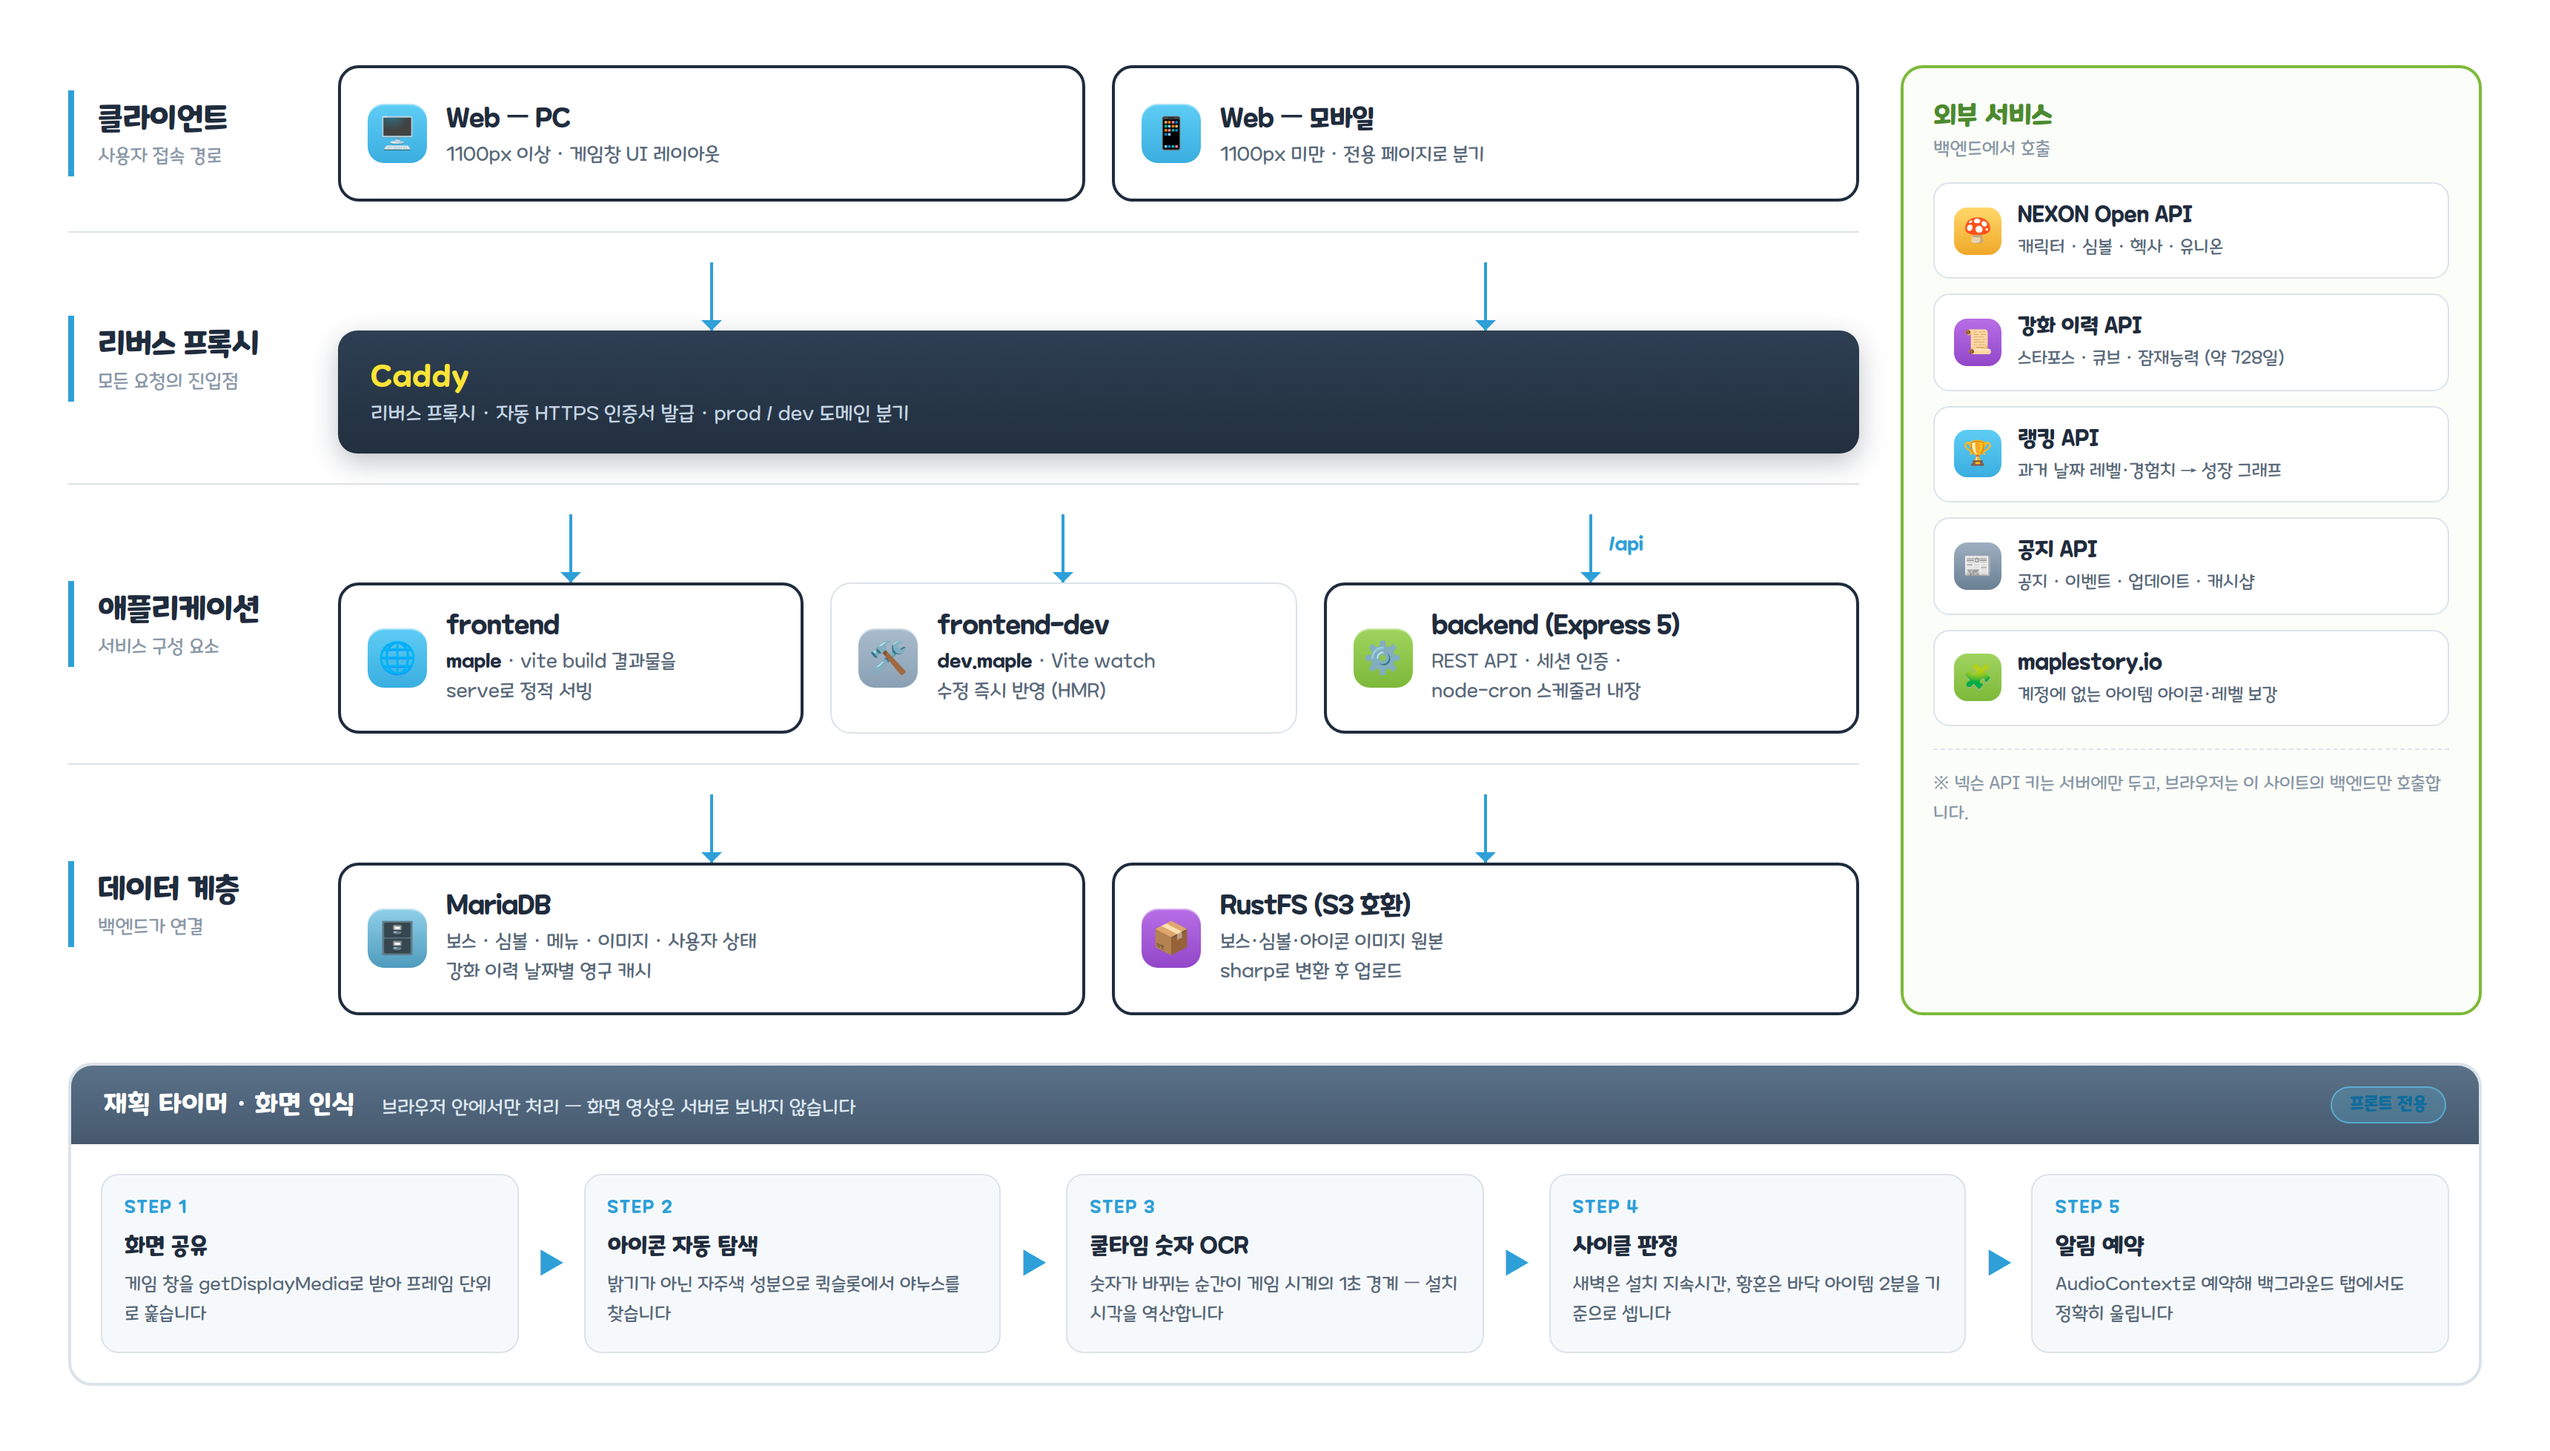
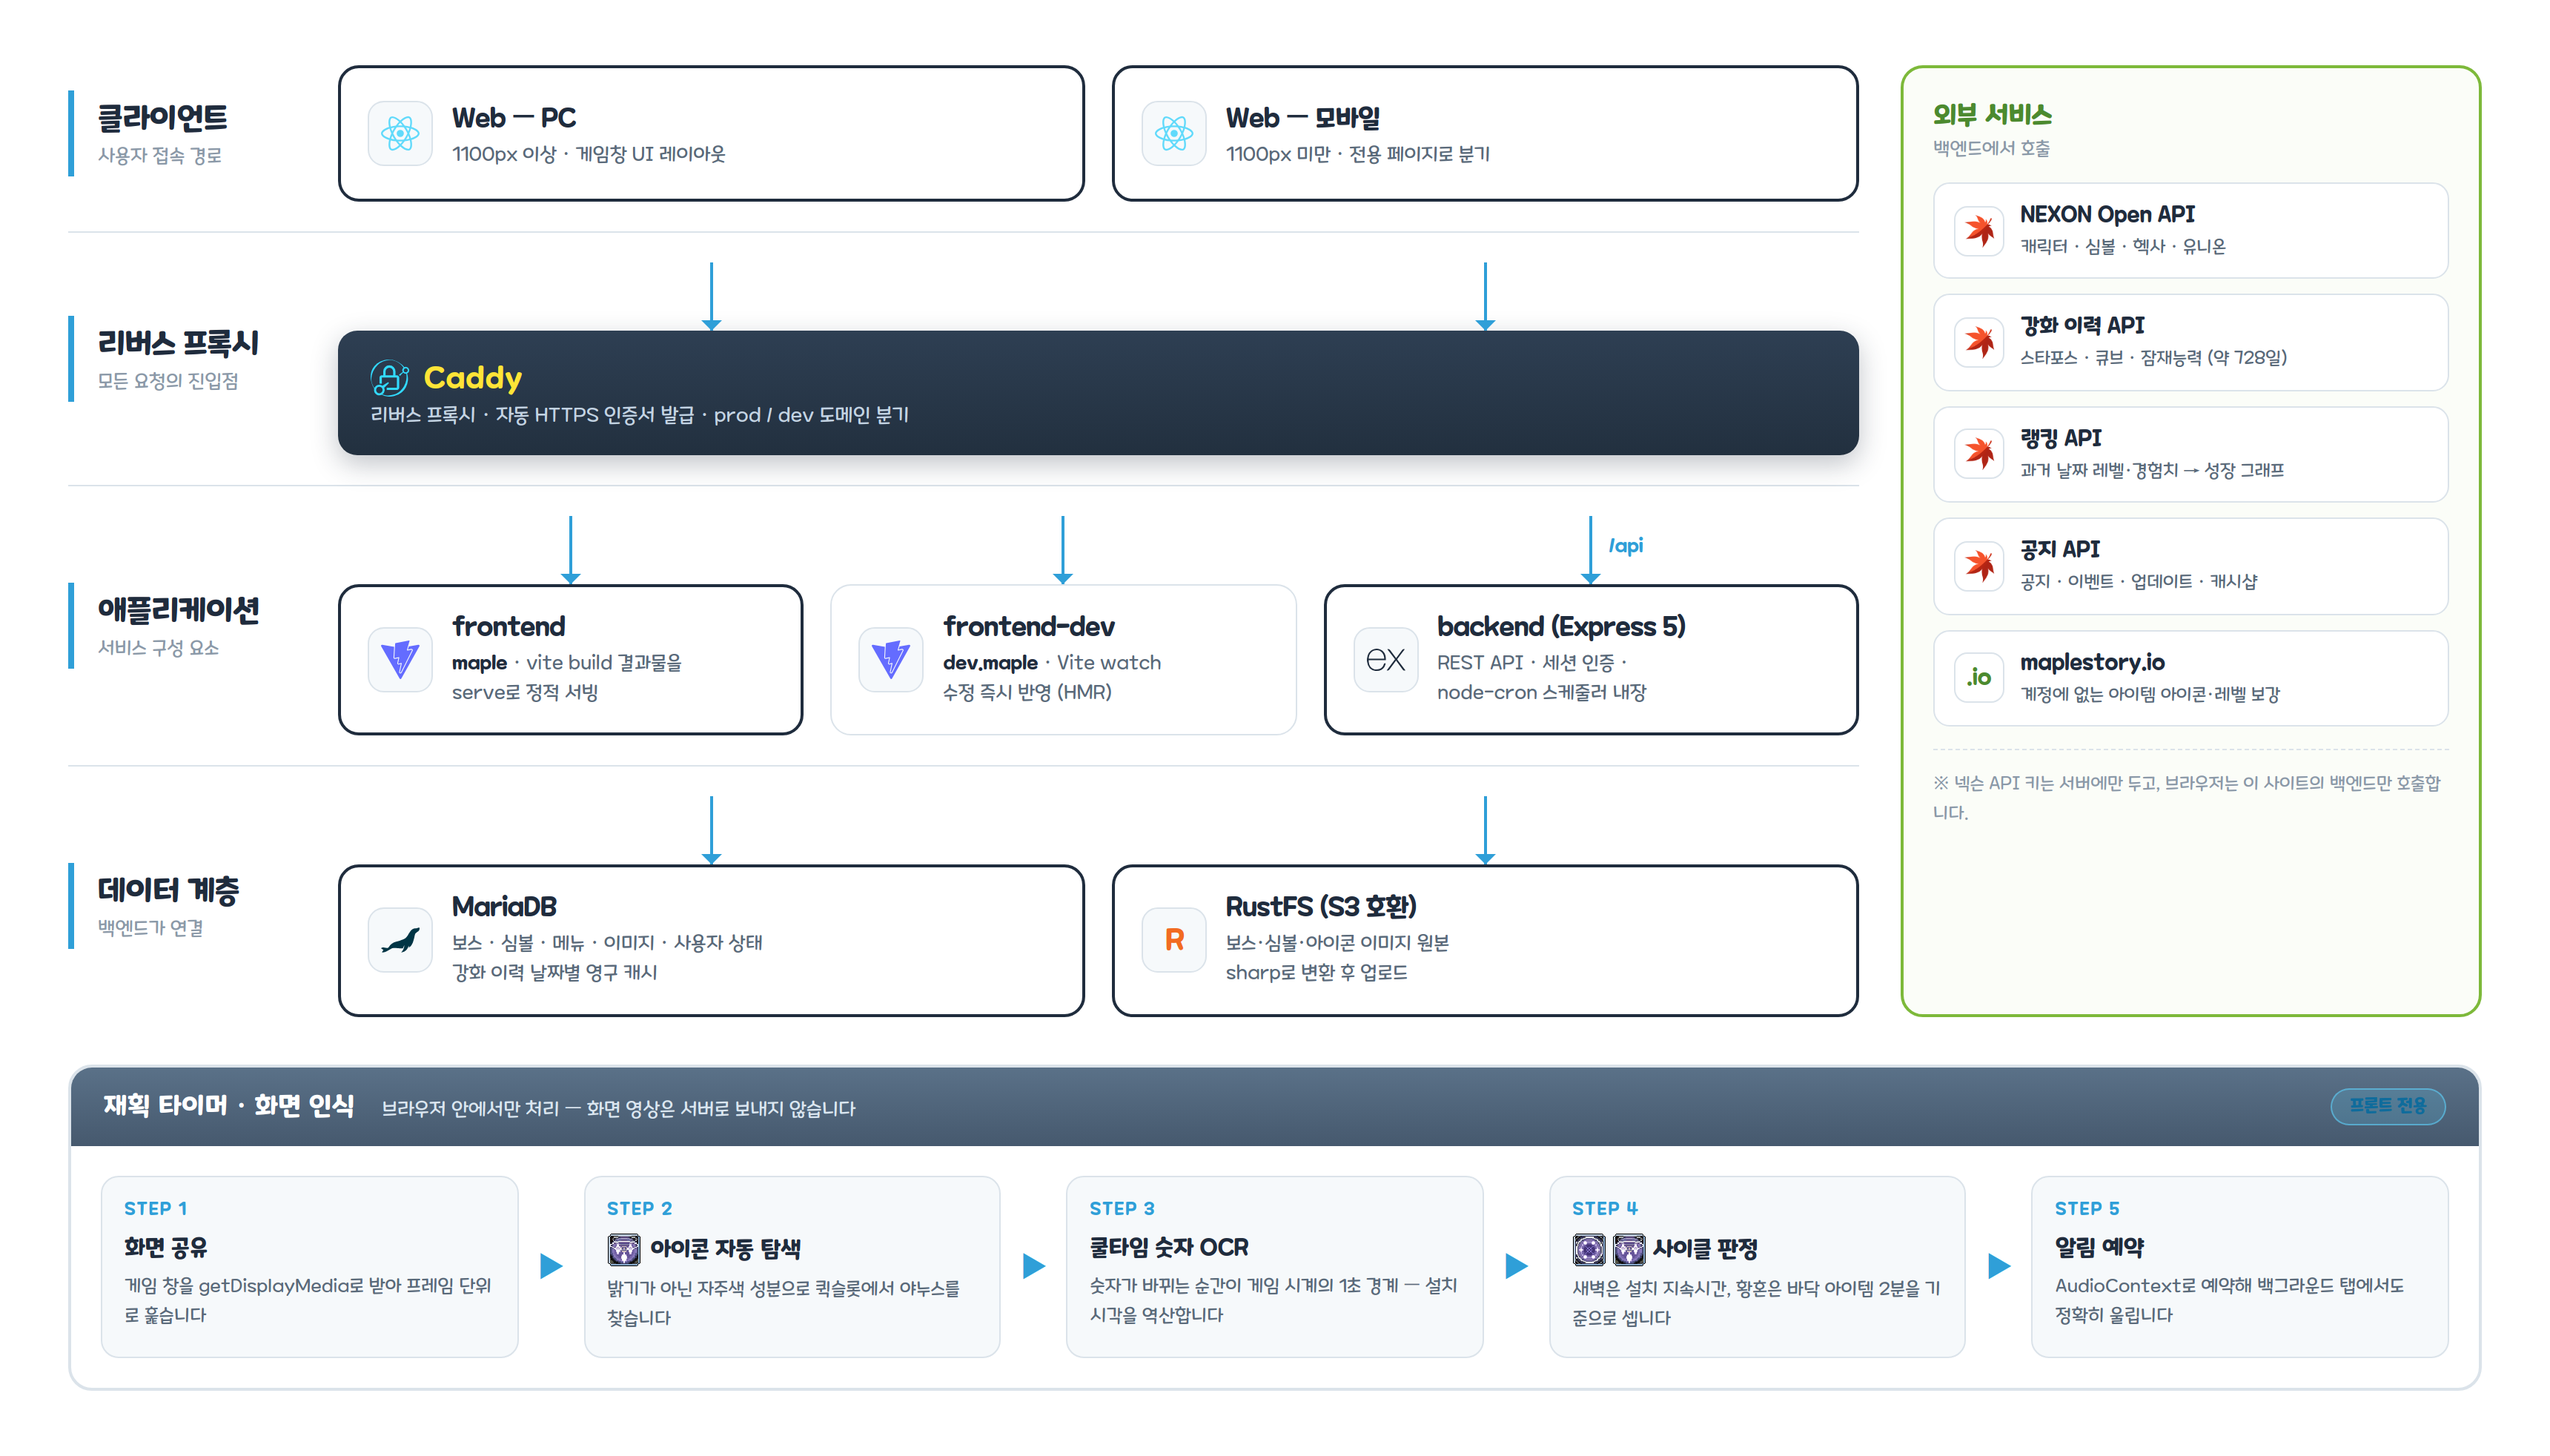
LICENSE·.env.example 추가, 구조도에 실제 로고 적용
퍼블릭 전환 준비:
- LICENSE(MIT) 파일 추가 — README에만 MIT라고 적혀 있어 GitHub이 인식하지 못했다.
- .env.example 추가 — 코드가 실제로 읽는 13개 변수만, 기본값을 주석으로 병기.
  (.gitignore의 .env 패턴은 .env.example을 잡지 않는 것 확인)

구조도 아이콘을 이모지에서 실제 로고로 교체했다. 렌더 시 네트워크에 기대지 않도록
base64로 내장한다(fromlog와 같은 방식).
- React · Vite · Express · MariaDB · Caddy 공식 로고(simple-icons, 브랜드 컬러)
- 넥슨 API 계열은 사이트 파비콘(단풍잎), RustFS·maplestory.io는 레터마크
- 타이머 STEP 2·4에는 게임에서 쓰는 실제 솔 야누스 새벽·황혼 아이콘

Claude-Session: https://claude.ai/code/session_01WCWL45FtCrvE2HbVjWmjRD

diff --git a/docs/images/architecture.html b/docs/images/architecture.html
@@ -41,8 +41,10 @@ body{
 .box{background:var(--card);border:2px solid var(--ink);border-radius:14px;
   padding:16px 18px;display:flex;align-items:center;gap:13px;min-height:92px}
 .box.soft{border:1.5px solid var(--line)}
-.ic{width:40px;height:40px;border-radius:11px;flex:none;display:flex;align-items:center;
-  justify-content:center;font-size:21px;box-shadow:inset 0 1px 0 rgba(255,255,255,.45)}
+.ic{width:44px;height:44px;border-radius:11px;flex:none;display:flex;align-items:center;
+  justify-content:center;background:var(--row);border:1px solid var(--line)}
+.ic img{width:26px;height:26px;object-fit:contain}
+.ic .mark{font-size:20px;font-weight:700;letter-spacing:-1px}
 .n{font-size:17.5px;font-weight:700;letter-spacing:-.3px}
 .d{font-size:13px;color:var(--muted);margin-top:4px;line-height:1.55}
 .d b{color:var(--ink);font-weight:700}
@@ -70,8 +72,9 @@ body{
 .xi + .xi{margin-top:10px}
 .xi .xn{font-size:14.5px;font-weight:700}
 .xi .xd{font-size:12px;color:var(--muted);margin-top:3px;line-height:1.45}
-.xic{width:32px;height:32px;border-radius:9px;flex:none;display:flex;align-items:center;
-  justify-content:center;font-size:16px}
+.xic{width:34px;height:34px;border-radius:9px;flex:none;display:flex;align-items:center;
+  justify-content:center;background:#fff;border:1px solid var(--line)}
+.xic img{width:22px;height:22px;object-fit:contain}
 .note{font-size:12px;color:var(--dim);margin-top:15px;line-height:1.65;
   padding-top:13px;border-top:1px dashed var(--line)}
 
@@ -102,11 +105,11 @@ body{
       <div class="lane-label"><div class="t">클라이언트</div><div class="s">사용자 접속 경로</div></div>
       <div class="grid" style="grid-template-columns:1fr 1fr">
         <div class="box">
-          <div class="ic" style="background:linear-gradient(180deg,var(--sky-from),var(--sky-to))">🖥</div>
[1 lines of base64/hex data omitted]
           <div><div class="n">Web — PC</div><div class="d">1100px 이상 · 게임창 UI 레이아웃</div></div>
         </div>
         <div class="box">
-          <div class="ic" style="background:linear-gradient(180deg,var(--sky-from),var(--sky-to))">📱</div>
[1 lines of base64/hex data omitted]
           <div><div class="n">Web — 모바일</div><div class="d">1100px 미만 · 전용 페이지로 분기</div></div>
         </div>
       </div>
@@ -120,7 +123,7 @@ body{
       <div>
         <div class="arrows" style="grid-template-columns:1fr 1fr"><div class="a"></div><div class="a"></div></div>
         <div class="proxy">
-          <div class="pn">Caddy</div>
[1 lines of base64/hex data omitted]
           <div class="pd">리버스 프록시 · 자동 HTTPS 인증서 발급 · prod / dev 도메인 분기</div>
         </div>
       </div>
@@ -137,15 +140,15 @@ body{
         </div>
         <div class="grid" style="grid-template-columns:1fr 1fr 1.15fr">
           <div class="box">
-            <div class="ic" style="background:linear-gradient(180deg,var(--sky-from),var(--sky-to))">🌐</div>
[1 lines of base64/hex data omitted]
             <div><div class="n">frontend</div><div class="d"><b>maple</b> · vite build 결과물을<br>serve로 정적 서빙</div></div>
           </div>
           <div class="box soft">
-            <div class="ic" style="background:linear-gradient(180deg,#a9bccd,#8ba0b4)">🛠</div>
[1 lines of base64/hex data omitted]
             <div><div class="n">frontend-dev</div><div class="d"><b>dev.maple</b> · Vite watch<br>수정 즉시 반영 (HMR)</div></div>
           </div>
           <div class="box">
-            <div class="ic" style="background:linear-gradient(180deg,var(--lime-from),var(--lime-to))">⚙</div>
[1 lines of base64/hex data omitted]
             <div><div class="n">backend (Express 5)</div><div class="d">REST API · 세션 인증 ·<br>node-cron 스케줄러 내장</div></div>
           </div>
         </div>
@@ -161,11 +164,11 @@ body{
         <div class="arrows" style="grid-template-columns:1fr 1fr"><div class="a"></div><div class="a"></div></div>
         <div class="grid" style="grid-template-columns:1fr 1fr">
           <div class="box">
-            <div class="ic" style="background:linear-gradient(180deg,#8fd0e8,#4f9bbd)">🗄</div>
[1 lines of base64/hex data omitted]
             <div><div class="n">MariaDB</div><div class="d">보스 · 심볼 · 메뉴 · 이미지 · 사용자 상태<br>강화 이력 날짜별 영구 캐시</div></div>
           </div>
           <div class="box">
-            <div class="ic" style="background:linear-gradient(180deg,var(--purple-from),var(--purple-to))">📦</div>
+            <div class="ic"><span class="mark" style="color:#f26b21">R</span></div>
             <div><div class="n">RustFS (S3 호환)</div><div class="d">보스·심볼·아이콘 이미지 원본<br>sharp로 변환 후 업로드</div></div>
           </div>
         </div>
@@ -180,23 +183,23 @@ body{
       <div class="ext-h">외부 서비스</div>
       <div class="ext-s">백엔드에서 호출</div>
       <div class="xi">
-        <div class="xic" style="background:linear-gradient(180deg,#ffd76a,#f0a828)">🍄</div>
[1 lines of base64/hex data omitted]
         <div><div class="xn">NEXON Open API</div><div class="xd">캐릭터 · 심볼 · 헥사 · 유니온</div></div>
       </div>
       <div class="xi">
-        <div class="xic" style="background:linear-gradient(180deg,var(--purple-from),var(--purple-to))">📜</div>
[1 lines of base64/hex data omitted]
         <div><div class="xn">강화 이력 API</div><div class="xd">스타포스 · 큐브 · 잠재능력 (약 728일)</div></div>
       </div>
       <div class="xi">
-        <div class="xic" style="background:linear-gradient(180deg,var(--sky-from),var(--sky-to))">🏆</div>
[1 lines of base64/hex data omitted]
         <div><div class="xn">랭킹 API</div><div class="xd">과거 날짜 레벨·경험치 → 성장 그래프</div></div>
       </div>
       <div class="xi">
-        <div class="xic" style="background:linear-gradient(180deg,#9db0c2,#6b7f93)">📰</div>
[1 lines of base64/hex data omitted]
         <div><div class="xn">공지 API</div><div class="xd">공지 · 이벤트 · 업데이트 · 캐시샵</div></div>
       </div>
       <div class="xi">
-        <div class="xic" style="background:linear-gradient(180deg,var(--lime-from),var(--lime-to))">🧩</div>
+        <div class="xic"><span style="font-size:15px;font-weight:700;color:#4c8a2f">.io</span></div>
         <div><div class="xn">maplestory.io</div><div class="xd">계정에 없는 아이템 아이콘·레벨 보강</div></div>
       </div>
       <div class="note">※ 넥슨 API 키는 서버에만 두고, 브라우저는 이 사이트의 백엔드만 호출합니다.</div>
@@ -218,7 +221,7 @@ body{
     </div>
     <div class="chev">▶</div>
     <div class="step">
-      <div class="k">STEP 2</div><div class="sn">아이콘 자동 탐색</div>
[1 lines of base64/hex data omitted]
       <div class="sd">밝기가 아닌 자주색 성분으로 퀵슬롯에서 야누스를 찾습니다</div>
     </div>
     <div class="chev">▶</div>
@@ -228,7 +231,7 @@ body{
     </div>
     <div class="chev">▶</div>
     <div class="step">
-      <div class="k">STEP 4</div><div class="sn">사이클 판정</div>
[1 lines of base64/hex data omitted]
       <div class="sd">새벽은 설치 지속시간, 황혼은 바닥 아이템 2분을 기준으로 셉니다</div>
     </div>
     <div class="chev">▶</div>

diff --git a/README.md b/README.md
@@ -187,7 +187,7 @@ cd backend && npm install && npm run dev   # node --watch
 
 ### 환경 변수
 
-`.env` 파일에 설정합니다.
+[`.env.example`](.env.example)을 `.env`로 복사해 값을 채웁니다.
 
 ```env
 # DB (MariaDB)
@@ -221,4 +221,4 @@ PORT=3000
 
 ## 📄 라이선스
 
-MIT License
+[MIT License](LICENSE)
